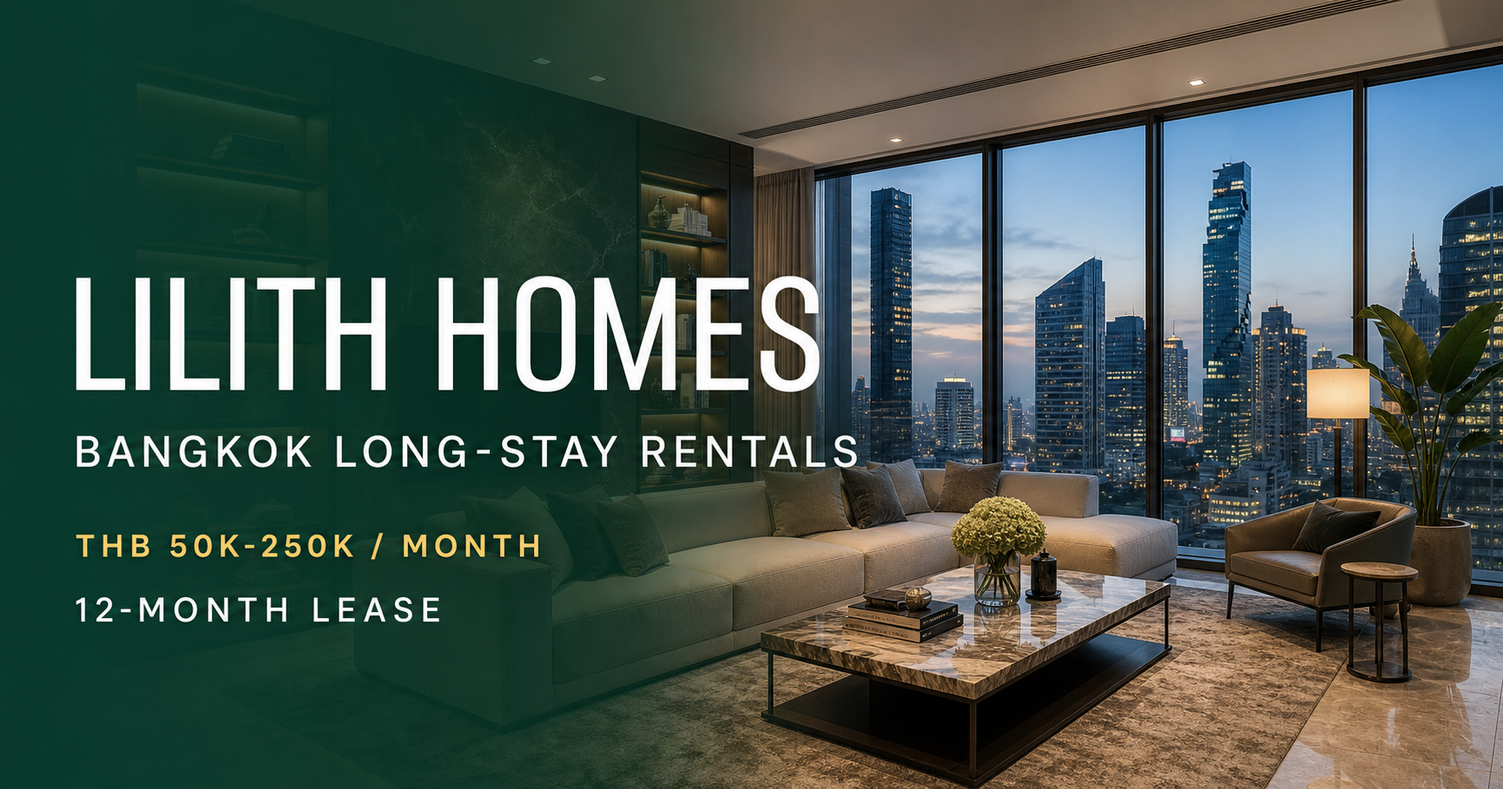
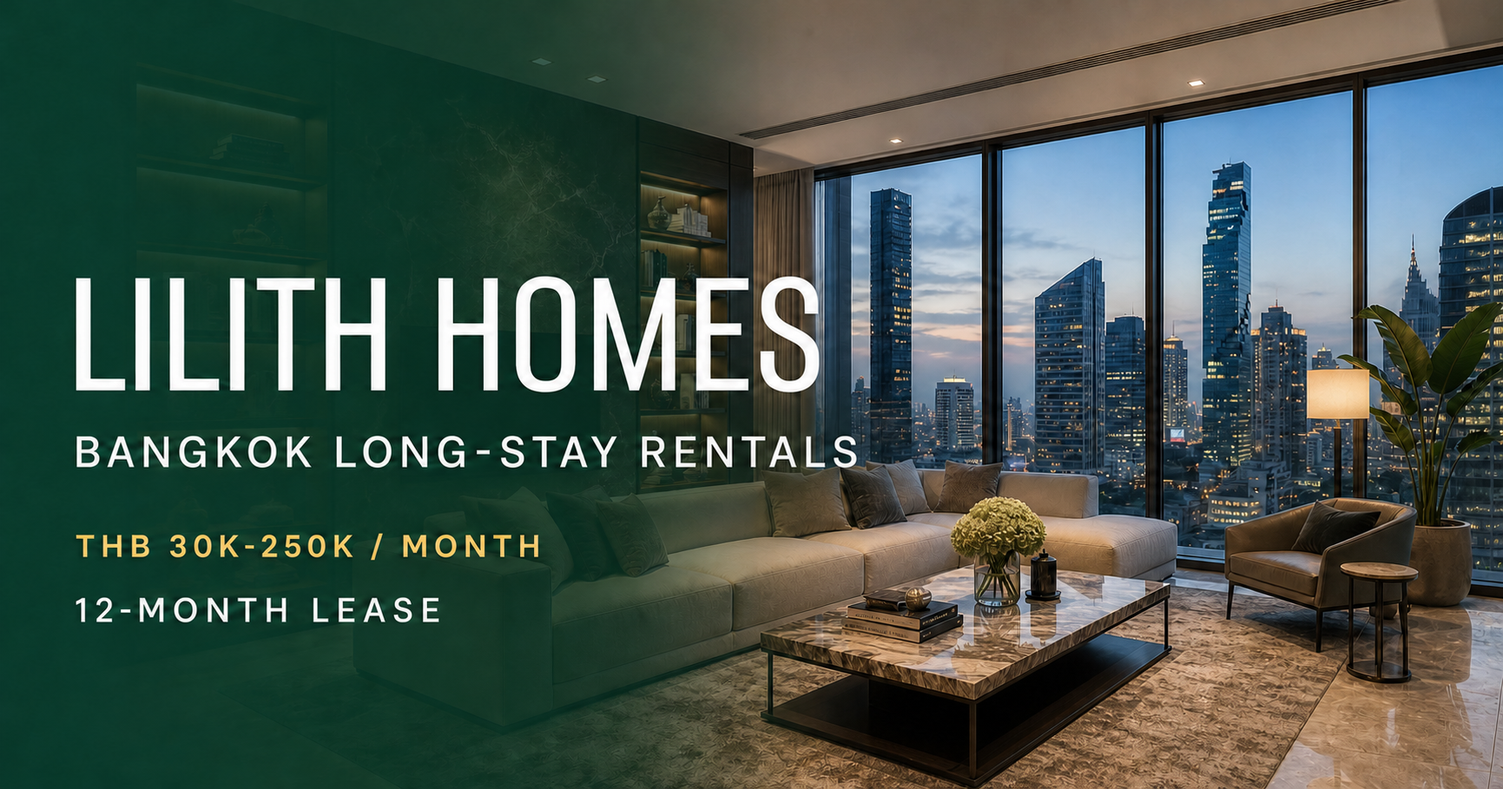
Expand rental budget range to 30K

diff --git a/public/script.js b/public/script.js
@@ -122,7 +122,7 @@ function saveLeads() {
 
 function inTargetRange(lead) {
   const budget = Number(lead.budget);
-  return budget >= 50000 && budget <= 250000;
+  return budget >= 30000 && budget <= 250000;
 }
 
 function targetLeads() {
@@ -339,7 +339,7 @@ function renderLeads() {
   if (!ranked.length) {
     leadTable.innerHTML = `
       <div class="empty-state">
-        <strong>ยังไม่มีลูกค้างบ ฿50K–฿250K</strong>
+        <strong>ยังไม่มีลูกค้างบ ฿30K–฿250K</strong>
         <span>เปิด public form หรือสร้าง campaign ด้านล่าง แล้วตอบ brief แรกภายใน 15 นาที</span>
       </div>
     `;
@@ -445,7 +445,7 @@ function campaignTemplate() {
     "Expat community post": {
       source: "expat_community",
       content: "executive_long_stay",
-      copy: `Relocating to Bangkok? Lilith Homes curates condos and houses in ${anchors} for ${persona}. Monthly budget ฿50,000-฿${budget}, 12-month lease. Share your brief to receive a ${offer}.`,
+      copy: `Relocating to Bangkok? Lilith Homes curates condos and houses in ${anchors} for ${persona}. Monthly budget ฿30,000-฿${budget}, 12-month lease. Share your brief to receive a ${offer}.`,
       actions: [
         "Post in one relevant expat or neighborhood community with a clear area and budget",
         "Answer in English and confirm employer, move date, bedrooms and lease term",
@@ -455,7 +455,7 @@ function campaignTemplate() {
     "Corporate HR / relocation outreach": {
       source: "corporate_relocation",
       content: "hr_partner",
-      copy: `Lilith Homes supports Bangkok relocation briefs for ${persona}. We coordinate 12-month residences in ${anchors} from ฿50,000 to ฿${budget} per month, with curated comparisons, viewing routes and contract support. Submit the employee brief here:`,
+      copy: `Lilith Homes supports Bangkok relocation briefs for ${persona}. We coordinate 12-month residences in ${anchors} from ฿30,000 to ฿${budget} per month, with curated comparisons, viewing routes and contract support. Submit the employee brief here:`,
       actions: [
         "Send to HR, mobility and relocation contacts with one concrete service promise",
         "Ask for policy budget, family size, office or school anchor and target move date",
@@ -465,7 +465,7 @@ function campaignTemplate() {
     "Facebook premium rental group": {
       source: "facebook_premium_group",
       content: "premium_12m",
-      copy: `กำลังหา ${persona} เช่าโซน ${anchors} อยู่ไหมคะ? งบ ฿50,000–฿${budget}/เดือน สัญญา 1 ปี ทีม Lilith ช่วยทำ ${offer} พร้อมเทียบค่าแรกเข้าและจัดนัดชมให้เป็นชุด ส่งโจทย์ได้ที่:`,
+      copy: `กำลังหา ${persona} เช่าโซน ${anchors} อยู่ไหมคะ? งบ ฿30,000–฿${budget}/เดือน สัญญา 1 ปี ทีม Lilith ช่วยทำ ${offer} พร้อมเทียบค่าแรกเข้าและจัดนัดชมให้เป็นชุด ส่งโจทย์ได้ที่:`,
       actions: [
         "ใช้ภาพทรัพย์จริงและระบุทำเล จำนวนห้องนอน งบ และสัญญา 1 ปีในบรรทัดแรก",
         "โพสต์เฉพาะกลุ่มที่อนุญาต agent หรือ service post",
@@ -485,7 +485,7 @@ function campaignTemplate() {
     "Referral partner push": {
       source: "referral_partner",
       content: "premium_tenant_referral",
-      copy: `มีลูกค้ามองหาบ้านหรือคอนโดกรุงเทพ งบ ฿50,000–฿${budget}/เดือน สัญญา 1 ปี โซน ${anchors} ฝาก brief ให้ Lilith ช่วยคัด ${offer} และประสานนัดชมได้ที่:`,
+      copy: `มีลูกค้ามองหาบ้านหรือคอนโดกรุงเทพ งบ ฿30,000–฿${budget}/เดือน สัญญา 1 ปี โซน ${anchors} ฝาก brief ให้ Lilith ช่วยคัด ${offer} และประสานนัดชมได้ที่:`,
       actions: [
         "ส่งให้ agent, owner representative และ relocation partner ที่เคยร่วมงาน",
         "ตกลงขอบเขตการแบ่งงานหรือค่าตอบแทนก่อนส่งข้อมูลลูกค้า",
@@ -539,7 +539,7 @@ generateLeadPlan.addEventListener("click", () => {
   const campaign = campaignTemplate();
   leadConsole.innerHTML = `
     <strong>Today's premium lead plan</strong>
-    <span>1) ตอบ new inquiry ${newLeads} รายภายใน 15 นาที 2) ดัน ${viewingReady} รายให้เลือกเวลานัดชม 3) ปล่อย ${escapeHtml(campaign.target)} ด้วยลิงก์ที่ติดตาม source แล้ว 4) ทุกคนต้องยืนยันงบ ฿50K–฿250K และสัญญา 12 เดือนก่อนส่ง shortlist</span>
+    <span>1) ตอบ new inquiry ${newLeads} รายภายใน 15 นาที 2) ดัน ${viewingReady} รายให้เลือกเวลานัดชม 3) ปล่อย ${escapeHtml(campaign.target)} ด้วยลิงก์ที่ติดตาม source แล้ว 4) ทุกคนต้องยืนยันงบ ฿30K–฿250K และสัญญา 12 เดือนก่อนส่ง shortlist</span>
   `;
 });
 

diff --git a/app/page.tsx b/app/page.tsx
@@ -4,7 +4,7 @@ import Script from "next/script";
 export const metadata: Metadata = {
   title: "Lilith Homes | บ้านและคอนโดเช่าพรีเมียม กรุงเทพ",
   description:
-    "บริการคัดบ้าน คอนโด และเพนต์เฮาส์เช่าในกรุงเทพ งบ 50,000-250,000 บาทต่อเดือน สำหรับสัญญา 1 ปี",
+    "บริการคัดบ้าน คอนโด และเพนต์เฮาส์เช่าในกรุงเทพ งบ 30,000-250,000 บาทต่อเดือน สำหรับสัญญา 1 ปี",
 };
 
 export default function Home() {
@@ -22,7 +22,7 @@ export default function Home() {
         <article className="public-copy">
           <div>
             <p className="label">Private rental search · Bangkok</p>
-            <h1>บ้านและคอนโดเช่าระดับพรีเมียม งบ 50,000–250,000 บาท</h1>
+            <h1>บ้านและคอนโดเช่าระดับพรีเมียม งบ 30,000–250,000 บาท</h1>
             <p className="public-intro">
               บอกโจทย์ครั้งเดียว แล้ว Lilith คัดตัวเลือกสำหรับสัญญา 1 ปี
               พร้อมเทียบห้อง ค่าแรกเข้า เงื่อนไข และจัดเส้นทางนัดชมให้เป็นชุด
@@ -34,7 +34,7 @@ export default function Home() {
           </div>
 
           <div className="public-stats" aria-label="Service scope">
-            <span>฿50K–฿250K / month</span>
+            <span>฿30K–฿250K / month</span>
             <span>12-month contract</span>
             <span>Condo · House · Penthouse</span>
           </div>
@@ -78,14 +78,17 @@ export default function Home() {
             </label>
             <label>
               งบต่อเดือน
-              <select id="publicBudget" name="budget" defaultValue="100000">
-                <option value="50000">ไม่เกิน ฿50,000</option>
-                <option value="75000">ไม่เกิน ฿75,000</option>
-                <option value="100000">ไม่เกิน ฿100,000</option>
-                <option value="150000">ไม่เกิน ฿150,000</option>
-                <option value="200000">ไม่เกิน ฿200,000</option>
-                <option value="250000">ไม่เกิน ฿250,000</option>
-              </select>
+              <input
+                id="publicBudget"
+                name="budget"
+                type="number"
+                inputMode="numeric"
+                min="30000"
+                max="250000"
+                step="5000"
+                defaultValue="100000"
+                required
+              />
             </label>
             <label>
               ประเภทที่พัก
@@ -205,7 +208,7 @@ export default function Home() {
 
       <footer className="public-footer">
         <strong>Lilith Homes</strong>
-        <span>Private Bangkok rental search · ฿50,000–฿250,000 / month</span>
+        <span>Private Bangkok rental search · ฿30,000–฿250,000 / month</span>
       </footer>
 
       <Script src="/capture.js" strategy="afterInteractive" />

diff --git a/app/dashboard/page.tsx b/app/dashboard/page.tsx
@@ -6,7 +6,7 @@ import { requireChatGPTUser } from "../chatgpt-auth";
 export const metadata: Metadata = {
   title: "Lilith Homes | Premium Rental Pipeline",
   description:
-    "Private control room for Bangkok 12-month rental leads at ฿50,000-฿250,000 per month.",
+    "Private control room for Bangkok 12-month rental leads at ฿30,000-฿250,000 per month.",
 };
 
 export const dynamic = "force-dynamic";
@@ -38,7 +38,7 @@ export default async function Dashboard() {
             </div>
             <div className="status-strip" aria-label="System status">
               <span className="status-dot" />
-              <span>Accepting ฿50K–฿250K briefs</span>
+              <span>Accepting ฿30K–฿250K briefs</span>
             </div>
           </header>
 
@@ -71,6 +71,8 @@ export default async function Dashboard() {
                 <label>
                   Max monthly rent
                   <select id="budgetInput" defaultValue="150000">
+                    <option value="30000">฿30,000</option>
+                    <option value="40000">฿40,000</option>
                     <option value="50000">฿50,000</option>
                     <option value="75000">฿75,000</option>
                     <option value="100000">฿100,000</option>
@@ -149,7 +151,7 @@ export default async function Dashboard() {
                   <input
                     id="leadBudget"
                     type="number"
-                    min="50000"
+                    min="30000"
                     max="250000"
                     step="5000"
                     defaultValue="100000"
@@ -324,7 +326,7 @@ export default async function Dashboard() {
                 <ul className="service-list">
                   <li>
                     <strong>Fit</strong>
-                    <span>งบ ฿50K–฿250K, ทำเล, ประเภททรัพย์ และจำนวนห้องนอน</span>
+                    <span>งบ ฿30K–฿250K, ทำเล, ประเภททรัพย์ และจำนวนห้องนอน</span>
                   </li>
                   <li>
                     <strong>Timing</strong>

diff --git a/public/capture.js b/public/capture.js
@@ -55,7 +55,7 @@ publicLeadForm.addEventListener("submit", async (event) => {
   } catch (error) {
     publicStatus.textContent =
       error instanceof Error && error.message.includes("12-month")
-        ? "กรุณาตรวจว่างบอยู่ระหว่าง 50,000–250,000 บาท และยืนยันสัญญา 1 ปี"
+        ? "กรุณาตรวจว่างบอยู่ระหว่าง 30,000–250,000 บาท และยืนยันสัญญา 1 ปี"
         : "ส่งไม่สำเร็จ กรุณาลองอีกครั้ง และตรวจข้อมูลติดต่อ งบ ทำเล และวันเข้าอยู่";
   } finally {
     publicSubmit.disabled = false;

diff --git a/app/layout.tsx b/app/layout.tsx
@@ -24,7 +24,7 @@ export async function generateMetadata(): Promise<Metadata> {
   const origin = `${protocol}://${host}`;
   const title = "Lilith Homes | Bangkok Long-Stay Rentals";
   const description =
-    "Private Bangkok rental search for 12-month homes at THB 50,000-250,000 per month.";
+    "Private Bangkok rental search for 12-month homes at THB 30,000-250,000 per month.";
 
   return {
     metadataBase: new URL(origin),
@@ -44,7 +44,7 @@ export async function generateMetadata(): Promise<Metadata> {
           url: `${origin}/og.png`,
           width: 1731,
           height: 909,
-          alt: "Lilith Homes Bangkok long-stay rentals, THB 50K-250K per month",
+          alt: "Lilith Homes Bangkok long-stay rentals, THB 30K-250K per month",
         },
       ],
     },

diff --git a/app/api/leads/validation.ts b/app/api/leads/validation.ts
@@ -17,6 +17,11 @@ export type LeadPayload = {
   stage?: string;
 };
 
+export const monthlyBudgetRange = {
+  min: 30000,
+  max: 250000,
+} as const;
+
 export const leadStages = [
   "New inquiry",
   "Qualified",
@@ -65,8 +70,8 @@ export function normalizeLead(payload: LeadPayload, authenticated: boolean) {
     !propertyType ||
     !preferredLanguage ||
     !Number.isFinite(budget) ||
-    budget < 50000 ||
-    budget > 250000 ||
+    budget < monthlyBudgetRange.min ||
+    budget > monthlyBudgetRange.max ||
     !Number.isInteger(bedrooms) ||
     bedrooms < 1 ||
     bedrooms > 5 ||

diff --git a/app/api/leads/route.ts b/app/api/leads/route.ts
@@ -1,5 +1,6 @@
 import { env } from "cloudflare:workers";
 import {
+  monthlyBudgetRange,
   normalizeLead,
   normalizeLeadUpdate,
   type LeadPayload,
@@ -122,7 +123,9 @@ export async function POST(request: Request) {
 
   if (!lead) {
     return json(
-      { error: "Lead must match a 12-month lease and a monthly budget of ฿50,000-฿250,000" },
+      {
+        error: `Lead must match a 12-month lease and a monthly budget of ฿${monthlyBudgetRange.min.toLocaleString("en-US")}-฿${monthlyBudgetRange.max.toLocaleString("en-US")}`,
+      },
       { status: 422 },
     );
   }

diff --git a/LAUNCH_TODAY.md b/LAUNCH_TODAY.md
@@ -10,7 +10,7 @@ https://lilith-renter-leads.yacht369.chatgpt.site/dashboard
 
 ## Target
 
-- ค่าเช่า 50,000-250,000 บาทต่อเดือน
+- ค่าเช่า 30,000-250,000 บาทต่อเดือน
 - สัญญา 12 เดือนเท่านั้น
 - กรุงเทพฯ: สุขุมวิทตอนกลาง, หลังสวน, วิทยุ, ลุมพินี, สาทร, ริเวอร์ไซด์ และโซนโรงเรียนนานาชาติ
 - Persona หลัก: expat executive, corporate relocation, international-school family, diplomatic/international-organization staff และ Thai executive
@@ -26,7 +26,7 @@ https://lilith-renter-leads.yacht369.chatgpt.site/dashboard
 
 ## Before Distribution
 
-- เตรียมทรัพย์จริงที่ยืนยันสถานะแล้วอย่างน้อย 6-10 รายการ ครอบคลุมงบ 50K, 75K, 100K, 150K และ 200K+
+- เตรียมทรัพย์จริงที่ยืนยันสถานะแล้วอย่างน้อย 6-10 รายการ ครอบคลุมงบ 30K, 50K, 75K, 100K, 150K และ 200K+
 - แต่ละรายการต้องมีรูปจริง ราคา จำนวนห้องนอน ขนาด ระยะถึง BTS/โรงเรียน เงื่อนไขสัตว์เลี้ยง ค่าแรกเข้า และวันพร้อมเข้าอยู่
 - ห้ามใช้คำว่า available หรือพร้อมนัดชม หากยังไม่ได้ยืนยันกับเจ้าของหรือ listing agent ในวันนั้น
 - กำหนดคนตอบ lead ให้ชัด และเปิด dashboard ค้างไว้ระหว่างปล่อยแคมเปญ
@@ -60,7 +60,7 @@ https://lilith-renter-leads.yacht369.chatgpt.site/dashboard
 ```text
 Relocating to Bangkok and looking for a 12-month home?
 
-Lilith Homes curates condos, apartments and houses in Phrom Phong, Thong Lo, Ekkamai, Langsuan, Wireless and Sathorn for monthly budgets of THB 50,000-250,000.
+Lilith Homes curates condos, apartments and houses in Phrom Phong, Thong Lo, Ekkamai, Langsuan, Wireless and Sathorn for monthly budgets of THB 30,000-250,000.
 
 Share your preferred area, bedrooms, move date and must-haves here:
 https://lilith-renter-leads.yacht369.chatgpt.site?utm_source=expat_community&utm_campaign=premium_12m&utm_content=executive_long_stay
@@ -71,7 +71,7 @@ We will confirm your brief, compare suitable options and coordinate a practical 
 ### Thai · Premium Rental
 
 ```text
-กำลังหาบ้านหรือคอนโดเช่ากรุงเทพ งบ 50,000-250,000 บาทต่อเดือน สัญญา 1 ปีอยู่ไหมคะ?
+กำลังหาบ้านหรือคอนโดเช่ากรุงเทพ งบ 30,000-250,000 บาทต่อเดือน สัญญา 1 ปีอยู่ไหมคะ?
 
 Lilith ช่วยคัด Private Shortlist ตามทำเล จำนวนห้องนอน วันเข้าอยู่ สัตว์เลี้ยง และเงื่อนไขสำคัญ พร้อมเทียบค่าแรกเข้าและจัดนัดชมให้เป็นชุด
 
@@ -82,7 +82,7 @@ https://lilith-renter-leads.yacht369.chatgpt.site?utm_source=facebook_premium_gr
 ### Corporate HR / Relocation
 
 ```text
-Lilith Homes supports Bangkok relocation briefs for executives and families seeking a 12-month residence at THB 50,000-250,000 per month.
+Lilith Homes supports Bangkok relocation briefs for executives and families seeking a 12-month residence at THB 30,000-250,000 per month.
 
 We provide one consolidated brief, curated comparisons, coordinated viewing routes and contract support across prime Bangkok areas.
 

diff --git a/OUTBOUND_DRAFTS.md b/OUTBOUND_DRAFTS.md
@@ -24,7 +24,7 @@ Subject: Bangkok 12-month housing referral support for inbound assignees
 ```text
 Hello Asian Tigers Thailand team,
 
-I am reaching out from Lilith Homes. We operate a Bangkok rental brief channel focused on executives and families seeking 12-month homes at THB 50,000-250,000 per month.
+I am reaching out from Lilith Homes. We operate a Bangkok rental brief channel focused on executives and families seeking 12-month homes at THB 30,000-250,000 per month.
 
 Would your relocation team consider a local housing referral arrangement when a confirmed renter brief matches your inbound assignment work? Before exchanging any client information, we would agree consent, lead ownership, service scope and compensation in writing.
 
@@ -48,7 +48,7 @@ Subject: Bangkok family and executive housing referral partnership
 ```text
 Hello Pacific Orientation team,
 
-I am reaching out from Lilith Homes. We operate a Bangkok rental brief channel for relocating executives and families seeking 12-month homes at THB 50,000-250,000 per month.
+I am reaching out from Lilith Homes. We operate a Bangkok rental brief channel for relocating executives and families seeking 12-month homes at THB 30,000-250,000 per month.
 
 Would your team be open to a referral arrangement when a confirmed brief matches your relocation clients? We capture the area or school/office anchor, bedrooms, move date, pets, viewing availability and company-lease requirements before a handoff. Consent, lead ownership, service scope and compensation would be agreed in writing first.
 
@@ -72,7 +72,7 @@ Subject: Local Bangkok housing referral support for corporate relocations
 ```text
 Hello Santa Fe Relocation Thailand team,
 
-I am reaching out from Lilith Homes. We operate a Bangkok rental brief channel focused on executives and families seeking 12-month homes at THB 50,000-250,000 per month.
+I am reaching out from Lilith Homes. We operate a Bangkok rental brief channel focused on executives and families seeking 12-month homes at THB 30,000-250,000 per month.
 
 Does your Bangkok corporate relocation team work with external local housing referral partners? When a brief is confirmed, we can structure the renter's location, policy budget, family needs, move date and viewing window before any agreed handoff. We would confirm consent, lead ownership, service scope and compensation in writing before sharing client data.
 
@@ -96,7 +96,7 @@ Subject: Premium Bangkok housing referral option for destination services
 ```text
 Hello Thai Relo Services team,
 
-I am reaching out from Lilith Homes. We operate a Bangkok rental brief channel for executives and families seeking 12-month homes at THB 50,000-250,000 per month.
+I am reaching out from Lilith Homes. We operate a Bangkok rental brief channel for executives and families seeking 12-month homes at THB 30,000-250,000 per month.
 
 Would your destination-services team consider a referral arrangement for clients who need a long-term Bangkok residence? We confirm the rental term, budget, office or school anchor, bedrooms, move date and viewing availability before handoff. Consent, lead ownership, service scope and compensation would be agreed in writing first.
 
@@ -120,7 +120,7 @@ Subject: Correct contact for Bangkok housing referral partnership
 ```text
 Hello United Relocations Thailand team,
 
-I am reaching out from Lilith Homes. We operate a Bangkok rental brief channel for executives and families seeking 12-month homes at THB 50,000-250,000 per month.
+I am reaching out from Lilith Homes. We operate a Bangkok rental brief channel for executives and families seeking 12-month homes at THB 30,000-250,000 per month.
 
 Could you direct me to the appropriate partnerships or destination-services contact to discuss a consent-based housing referral arrangement? We would agree lead ownership, service scope and compensation in writing before sharing any client information.
 

diff --git a/OUTREACH_PACK.md b/OUTREACH_PACK.md
@@ -1,13 +1,13 @@
 # Lilith Premium Outreach Pack
 
-ใช้กับลูกค้าเช่ากรุงเทพ งบ 50,000-250,000 บาทต่อเดือน และสัญญา 12 เดือนเท่านั้น
+ใช้กับลูกค้าเช่ากรุงเทพ งบ 30,000-250,000 บาทต่อเดือน และสัญญา 12 เดือนเท่านั้น
 
 ## English Expat Post
 
 ```text
 Looking for a Bangkok home for the next 12 months?
 
-Lilith Homes curates premium condos, apartments and houses for executives, expats and families with monthly budgets from THB 50,000 to THB 250,000.
+Lilith Homes curates premium condos, apartments and houses for executives, expats and families with monthly budgets from THB 30,000 to THB 250,000.
 
 Tell us your preferred area, bedrooms, move-in date, pets and must-haves. We will confirm your brief, compare suitable options and coordinate a focused viewing route.
 
@@ -17,7 +17,7 @@ Tell us your preferred area, bedrooms, move-in date, pets and must-haves. We wil
 ## Thai Premium Post
 
 ```text
-กำลังหาบ้านหรือคอนโดเช่ากรุงเทพ สัญญา 1 ปี งบ 50,000-250,000 บาทต่อเดือนอยู่ไหมคะ?
+กำลังหาบ้านหรือคอนโดเช่ากรุงเทพ สัญญา 1 ปี งบ 30,000-250,000 บาทต่อเดือนอยู่ไหมคะ?
 
 ส่งทำเล จำนวนห้องนอน วันเข้าอยู่ สัตว์เลี้ยง และสิ่งที่ต้องมีให้ Lilith ช่วยคัด Private Shortlist พร้อมเทียบราคา ค่าแรกเข้า และจัดนัดชมหลายห้องให้เป็นเส้นทางเดียว
 
@@ -31,7 +31,7 @@ Subject: Bangkok 12-month housing support for relocating employees
 ```text
 Hello [Name],
 
-Lilith Homes supports Bangkok housing briefs for relocating executives and families with monthly budgets of THB 50,000-250,000.
+Lilith Homes supports Bangkok housing briefs for relocating executives and families with monthly budgets of THB 30,000-250,000.
 
 For each employee, we consolidate the location, policy budget, family needs and move date into one brief, then coordinate a curated comparison, viewing route and 12-month contract process.
 
@@ -44,7 +44,7 @@ Lilith Homes
 ## Referral Partner Message
 
 ```text
-มีลูกค้ามองหาบ้านหรือคอนโดกรุงเทพ งบ 50,000-250,000 บาทต่อเดือน สัญญา 1 ปี ฝาก brief ให้ Lilith ช่วยคัดตัวเลือกและประสานนัดชมได้ค่ะ
+มีลูกค้ามองหาบ้านหรือคอนโดกรุงเทพ งบ 30,000-250,000 บาทต่อเดือน สัญญา 1 ปี ฝาก brief ให้ Lilith ช่วยคัดตัวเลือกและประสานนัดชมได้ค่ะ
 
 ก่อนส่งข้อมูลลูกค้า เราตกลงขอบเขตการทำงานและ referral/co-broke ให้ชัดเจนได้เลย
 
@@ -96,7 +96,7 @@ Hi [Name], thank you for your 12-month Bangkok rental brief. Before I prepare yo
 ## Qualification Gate
 
 - Contact ตอบกลับได้จริง
-- Budget 50,000-250,000 บาทต่อเดือน
+- Budget 30,000-250,000 บาทต่อเดือน
 - Contract 12 months confirmed
 - Area or office/school anchor
 - Property type and bedrooms
